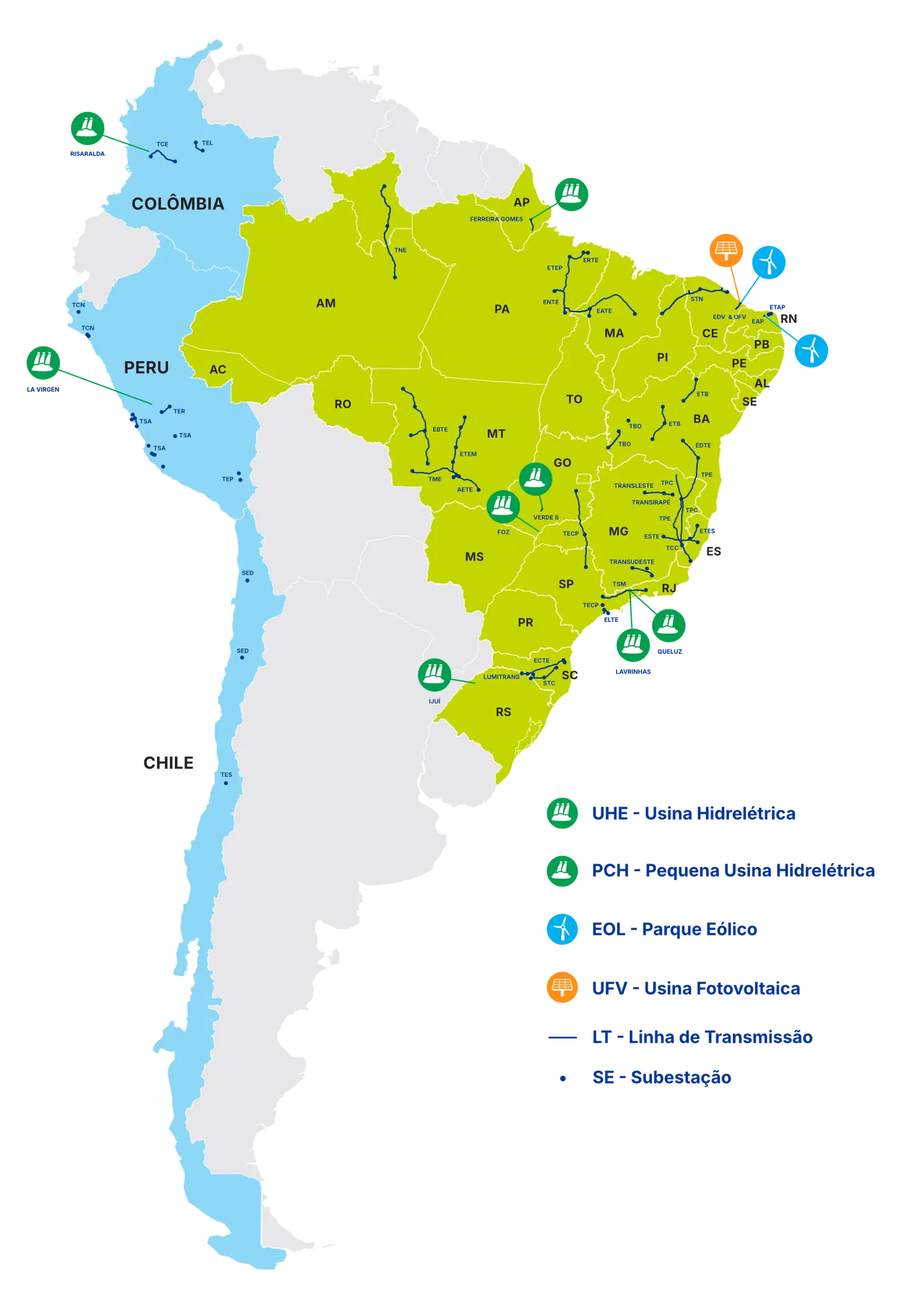
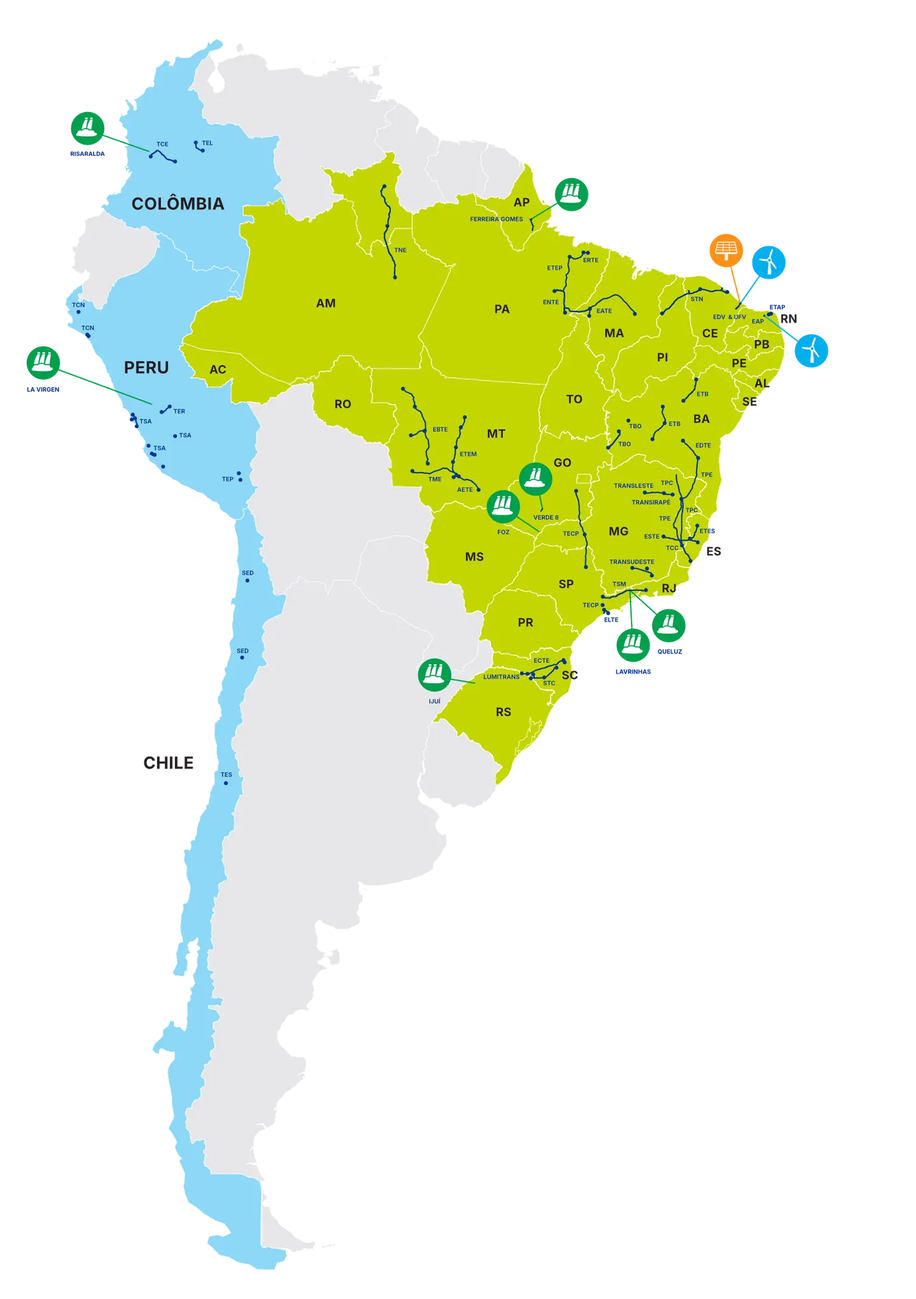
feat: legenda do mapa em HTML, botões de ação e título menor no celular
A legenda estava desenhada na imagem do mapa: no celular o texto caía a
uns 6 px e só existia em português. Sai da imagem e vira lista, nos três
idiomas, no mesmo canto do mapa quando há largura e abaixo dele quando
não há. Os ícones são recortes do próprio mapa.

Na Área de atuação os quatro links de ação viram o botão do tema, com
hierarquia e área de toque de verdade. Abaixo de 992 px o h2 desce a
24 px e o h3 a 22 px, para não passarem do h1 de 26 px.

Changed region(s): [[0.5938, 0.617, 0.875, 0.833], [0.7188, 0.617, 0.9375, 0.6787]]

diff --git a/acervo/revisado/es/area-de-atuacao.html b/acervo/revisado/es/area-de-atuacao.html
@@ -2,7 +2,7 @@
 <h2>Transmisión de energía: la columna vertebral del negocio</h2>
 <p>En el segmento de transmisión, Alupar posee la concesión de 45 sistemas, que suman más de 10 mil km de líneas en diferentes regiones. Son concesiones de 30 años en Brasil y en Perú, y concesiones perpetuas en Colombia y en Chile, lo que refuerza el carácter de largo plazo de las inversiones de la empresa.</p>
 <p>Es esta red la que lleva la energía generada en un punto del continente hasta donde realmente se consume, con seguridad, eficiencia y la calidad técnica reconocida por el sector.</p>
-<p><a href="/es/empresas/#transmisores">Conozca las transmisoras de Alupar</a></p>
+<p><a class="btn btn-azul" href="/es/empresas/#transmisores">Conozca las transmisoras de Alupar</a></p>
 <h2>Generación renovable: invirtiendo en el futuro de la energía renovable</h2>
 <p>En generación, Alupar se enfoca en las fuentes renovables. Son 16 emprendimientos entre concesiones y autorizaciones, que totalizan casi 800 MW de capacidad instalada, distribuidos así:</p>
 <ul>
@@ -12,11 +12,11 @@
 <li>1 planta fotovoltaica</li>
 </ul>
 <p>Esta diversidad de fuentes refleja una estrategia de largo plazo para diversificar la matriz energética y reducir riesgos, siempre con foco en la sostenibilidad.</p>
-<p><a href="/es/empresas/#generadores">Conozca las generadoras de Alupar</a></p>
+<p><a class="btn btn-azul" href="/es/empresas/#generadores">Conozca las generadoras de Alupar</a></p>
 <h2>Más allá de la transmisión y la generación</h2>
 <p>En los últimos años, Alupar amplió su negocio en Brasil. Además de transmitir y generar energía, también actúa en el segmento de comercialización: Alup, nuestra comercializadora, actúa en el mercado libre ofreciendo energía con certificación de origen renovable para clientes de media y alta tensión.</p>
 <p>Es un paso natural para quien ya domina la cadena de energía de punta a punta y ahora conecta ese conocimiento y su experiencia directamente con quien consume.</p>
-<p><a href="https://alup.io/" target="_blank">Conozca más sobre Alup</a></p>
+<p><a class="btn btn-azul" href="https://alup.io/" target="_blank">Conozca más sobre Alup</a></p>
 <h2>De Brasil a la internacionalización</h2>
 <p>Como multinacional, la actuación de Alupar va más allá de las fronteras brasileñas. Estamos presentes en tres países de América Latina:</p>
 <ul>
@@ -25,6 +25,16 @@
 <li>Perú: Central Hidroeléctrica La Virgen y los proyectos de transmisión Transmissora Costa Norte (TCN), Transmissora de Energia de Puno (TEP), Transmissora Sierra Azul (TSA) y Transmissora de Energia de Runatullo (TER).</li>
 </ul>
 <p>Cada uno de estos activos pasó por el mismo proceso aplicado en Brasil: desde la concepción del proyecto hasta la operación efectiva, con el rigor técnico que se ha convertido en marca registrada de la compañía.</p>
-<p><a href="/es/empresas/">Conozca las empresas de Alupar</a></p>
-<p><img class="aligncenter" src="https://www.alupar.com.br/wp-content/uploads/sites/alupar/2026/09/mapa-ativos.png" alt="Mapa de los activos de Alupar en América del Sur: líneas de transmisión, subestaciones y centrales en Brasil, y activos en Chile, Colombia y Perú. Leyenda (en portugués): UHE, central hidroeléctrica; PCH, pequeña central hidroeléctrica; EOL, parque eólico; UFV, planta fotovoltaica; LT, línea de transmisión; SE, subestación." width="600" height="851"></p>
+<p><a class="btn btn-azul" href="/es/empresas/">Conozca las empresas de Alupar</a></p>
+<figure class="mapa">
+<img class="aligncenter" src="https://www.alupar.com.br/wp-content/uploads/sites/alupar/2026/09/mapa-ativos.png" alt="Mapa de los activos de Alupar en América del Sur: líneas de transmisión, subestaciones y centrales en Brasil, y activos en Chile, Colombia y Perú." width="600" height="851">
+<ul class="legenda" aria-label="Leyenda del mapa">
+<li><img src="/img/mapa/hidro.webp" alt="" width="28" height="28"><span>UHE – Central Hidroeléctrica</span></li>
+<li><img src="/img/mapa/hidro.webp" alt="" width="28" height="28"><span>PCH – Pequeña Central Hidroeléctrica</span></li>
+<li><img src="/img/mapa/eolica.webp" alt="" width="28" height="28"><span>EOL – Parque Eólico</span></li>
+<li><img src="/img/mapa/solar.webp" alt="" width="28" height="28"><span>UFV – Planta Fotovoltaica</span></li>
+<li><i class="ic lt" aria-hidden="true"></i><span>LT – Línea de Transmisión</span></li>
+<li><i class="ic se" aria-hidden="true"></i><span>SE – Subestación</span></li>
+</ul>
+</figure>
 </div> </div>

diff --git a/acervo/revisado/pt/area-de-atuacao.html b/acervo/revisado/pt/area-de-atuacao.html
@@ -2,7 +2,7 @@
 <h2>Transmissão de energia: a espinha dorsal do negócio</h2>
 <p>No segmento de transmissão, a Alupar detém a concessão de 45 sistemas, somando mais de 10 mil km de linhas em diferentes regiões. São concessões de 30 anos no Brasil e no Peru, e concessões vitalícias na Colômbia e no Chile, o que reforça o caráter de longo prazo dos investimentos da empresa.</p>
 <p>É essa rede que leva a energia gerada em um ponto do continente até onde ela realmente é consumida, com segurança, eficiência e a qualidade técnica reconhecida pelo setor.</p>
-<p><a href="/empresas/#transmissoras">Conheça as Transmissoras da Alupar</a></p>
+<p><a class="btn btn-azul" href="/empresas/#transmissoras">Conheça as Transmissoras da Alupar</a></p>
 <h2>Geração renovável: investindo no futuro da energia renovável</h2>
 <p>Na geração, a Alupar foca nas fontes renováveis. São 16 empreendimentos entre concessões e autorizações, totalizando quase 800 MW de capacidade instalada, distribuídos assim:</p>
 <ul>
@@ -12,11 +12,11 @@
 <li>1 usina fotovoltaica</li>
 </ul>
 <p>Essa diversidade de fontes reflete uma estratégia de longo prazo para diversificar a matriz energética e reduzir riscos, sempre com foco em sustentabilidade.</p>
-<p><a href="/empresas/#geradoras">Conheça as Geradoras da Alupar</a></p>
+<p><a class="btn btn-azul" href="/empresas/#geradoras">Conheça as Geradoras da Alupar</a></p>
 <h2>Indo além da transmissão e da geração</h2>
 <p>Nos últimos anos, a Alupar ampliou o próprio negócio no Brasil. Além de transmitir e gerar energia, também atua no segmento de comercialização: a Alup, nossa comercializadora, atua no mercado livre oferecendo energia com certificação de origem renovável para clientes de média e alta tensão.</p>
 <p>É um passo natural para quem já domina a cadeia de energia de ponta a ponta e agora conecta esse conhecimento e sua experiência diretamente a quem consome.</p>
-<p><a href="https://alup.io/" target="_blank">Saiba mais sobre a Alup</a></p>
+<p><a class="btn btn-azul" href="https://alup.io/" target="_blank">Saiba mais sobre a Alup</a></p>
 <h2>Do Brasil para a Internacionalização</h2>
 <p>Como multinacional, a atuação da Alupar vai além das fronteiras brasileiras. Estamos presentes em três países da América Latina:</p>
 <ul>
@@ -25,6 +25,16 @@
 <li>Peru: Usina Hidrelétrica La Virgen e os projetos de transmissão Transmissora Costa Norte (TCN), Transmissora de Energia de Puno (TEP), Transmissora Sierra Azul (TSA) e Transmissora de Energia de Runatullo (TER).</li>
 </ul>
 <p>Cada um desses ativos passou pelo mesmo processo aplicado no Brasil: da concepção do projeto até a operação efetiva, com o rigor técnico que se tornou marca registrada da companhia.</p>
-<p><a href="/empresas/">Conheça as empresas da Alupar</a></p>
-<p><img class="aligncenter" src="https://www.alupar.com.br/wp-content/uploads/sites/alupar/2026/09/mapa-ativos.png" alt="Mapa dos ativos da Alupar na América do Sul: linhas de transmissão, subestações e usinas no Brasil, e ativos no Chile, na Colômbia e no Peru. Legenda: UHE, usina hidrelétrica; PCH, pequena central hidrelétrica; EOL, parque eólico; UFV, usina fotovoltaica; LT, linha de transmissão; SE, subestação." width="600" height="851"></p>
+<p><a class="btn btn-azul" href="/empresas/">Conheça as empresas da Alupar</a></p>
+<figure class="mapa">
+<img class="aligncenter" src="https://www.alupar.com.br/wp-content/uploads/sites/alupar/2026/09/mapa-ativos.png" alt="Mapa dos ativos da Alupar na América do Sul: linhas de transmissão, subestações e usinas no Brasil, e ativos no Chile, na Colômbia e no Peru." width="600" height="851">
+<ul class="legenda" aria-label="Legenda do mapa">
+<li><img src="/img/mapa/hidro.webp" alt="" width="28" height="28"><span>UHE – Usina Hidrelétrica</span></li>
+<li><img src="/img/mapa/hidro.webp" alt="" width="28" height="28"><span>PCH – Pequena Usina Hidrelétrica</span></li>
+<li><img src="/img/mapa/eolica.webp" alt="" width="28" height="28"><span>EOL – Parque Eólico</span></li>
+<li><img src="/img/mapa/solar.webp" alt="" width="28" height="28"><span>UFV – Usina Fotovoltaica</span></li>
+<li><i class="ic lt" aria-hidden="true"></i><span>LT – Linha de Transmissão</span></li>
+<li><i class="ic se" aria-hidden="true"></i><span>SE – Subestação</span></li>
+</ul>
+</figure>
 </div> </div>

diff --git a/acervo/revisado/en/area-de-atuacao.html b/acervo/revisado/en/area-de-atuacao.html
@@ -2,7 +2,7 @@
 <h2>Power transmission: the backbone of the business</h2>
 <p>In the transmission segment, Alupar holds the concession for 45 systems, totaling more than 10,000 km of lines across different regions. These are 30-year concessions in Brazil and Peru, and lifetime concessions in Colombia and Chile, which underscores the long-term nature of the company’s investments.</p>
 <p>This network carries the energy generated at one point of the continent to where it is actually consumed, with safety, efficiency and the technical quality recognized by the industry.</p>
-<p><a href="/en/empresas/">Meet Alupar’s transmission companies</a></p>
+<p><a class="btn btn-azul" href="/en/empresas/">Meet Alupar’s transmission companies</a></p>
 <h2>Renewable generation: investing in the future of renewable energy</h2>
 <p>In generation, Alupar focuses on renewable sources. There are 16 projects, between concessions and authorizations, totaling nearly 800 MW of installed capacity, distributed as follows:</p>
 <ul>
@@ -12,11 +12,11 @@
 <li>1 photovoltaic plant</li>
 </ul>
 <p>This diversity of sources reflects a long-term strategy to diversify the energy mix and reduce risks, always with a focus on sustainability.</p>
-<p><a href="/en/empresas/#generators">Meet Alupar’s generation companies</a></p>
+<p><a class="btn btn-azul" href="/en/empresas/#generators">Meet Alupar’s generation companies</a></p>
 <h2>Going beyond transmission and generation</h2>
 <p>In recent years, Alupar has expanded its business in Brazil. In addition to transmitting and generating energy, it also operates in energy trading: Alup, our trading company, operates in the free market offering energy with renewable origin certification to medium- and high-voltage customers.</p>
 <p>It is a natural step for a company that already masters the energy chain end to end and now connects this knowledge and experience directly to those who consume it.</p>
-<p><a href="https://alup.io/" target="_blank">Learn more about Alup</a></p>
+<p><a class="btn btn-azul" href="https://alup.io/" target="_blank">Learn more about Alup</a></p>
 <h2>From Brazil to internationalization</h2>
 <p>As a multinational, Alupar’s activities go beyond Brazil’s borders. We are present in three Latin American countries:</p>
 <ul>
@@ -25,6 +25,16 @@
 <li>Peru: La Virgen Hydroelectric Plant and the transmission projects Transmissora Costa Norte (TCN), Transmissora de Energia de Puno (TEP), Transmissora Sierra Azul (TSA) and Transmissora de Energia de Runatullo (TER).</li>
 </ul>
 <p>Each of these assets went through the same process applied in Brazil: from project conception to effective operation, with the technical rigor that has become the company’s trademark.</p>
-<p><a href="/en/empresas/">Meet Alupar’s companies</a></p>
-<p><img class="aligncenter" src="https://www.alupar.com.br/wp-content/uploads/sites/alupar/2026/09/mapa-ativos.png" alt="Map of Alupar’s assets in South America: transmission lines, substations and power plants in Brazil, and assets in Chile, Colombia and Peru. Legend (in Portuguese): UHE, hydroelectric plant; PCH, small hydroelectric plant; EOL, wind farm; UFV, photovoltaic plant; LT, transmission line; SE, substation." width="600" height="851"></p>
+<p><a class="btn btn-azul" href="/en/empresas/">Meet Alupar’s companies</a></p>
+<figure class="mapa">
+<img class="aligncenter" src="https://www.alupar.com.br/wp-content/uploads/sites/alupar/2026/09/mapa-ativos.png" alt="Map of Alupar’s assets in South America: transmission lines, substations and power plants in Brazil, and assets in Chile, Colombia and Peru." width="600" height="851">
+<ul class="legenda" aria-label="Map legend">
+<li><img src="/img/mapa/hidro.webp" alt="" width="28" height="28"><span>UHE – Hydroelectric Power Plant</span></li>
+<li><img src="/img/mapa/hidro.webp" alt="" width="28" height="28"><span>PCH – Small Hydroelectric Plant</span></li>
+<li><img src="/img/mapa/eolica.webp" alt="" width="28" height="28"><span>EOL – Wind Farm</span></li>
+<li><img src="/img/mapa/solar.webp" alt="" width="28" height="28"><span>UFV – Photovoltaic Plant</span></li>
+<li><i class="ic lt" aria-hidden="true"></i><span>LT – Transmission Line</span></li>
+<li><i class="ic se" aria-hidden="true"></i><span>SE – Substation</span></li>
+</ul>
+</figure>
 </div> </div>

diff --git a/acervo/revisado/pt/a-companhia.html b/acervo/revisado/pt/a-companhia.html
@@ -4,7 +4,17 @@
 <p>A vasta experiência e os resultados demonstram a competência técnica da Alupar possibilitando o desenvolvimento de projetos, seja na Transmissão de Energia, seja na Geração, com a eficiência e qualidade necessárias, desde a sua concepção até a sua efetiva operação, agregando valor à sociedade e ao país, comprovados pelos altos índices de qualidade dos seus empreendimentos em operação.</p>
 <p>Além dos ativos no Brasil, estamos presentes no Chile, através da Transmissora de Energia de Santiago (TES) e da SED; na Colômbia, através da PCH Risaralda (Morro Azul), da Transmissora Colombiana de Energia (TCE) e da Transmissora de Energia de Los Llanos (TEL); e no Peru, através da Usina Hidrelétrica La Virgen, da Transmissora Costa Norte (TCN), da Transmissora de Energia de Puno (TEP), da Transmissora Sierra Azul (TSA) e da Transmissora de Energia de Runatullo (TER).</p>
 <p>Com o compromisso de gerar valor à sociedade e aos seus acionistas, a Alupar investe em competência técnica, forte disciplina financeira e responsabilidade social para continuar com o seu crescimento sustentável através do desenvolvimento de projetos de geração e sistemas de transmissão.</p>
-<p><img class="aligncenter" src="https://www.alupar.com.br/wp-content/uploads/sites/alupar/2026/09/mapa-ativos.png" alt="Mapa dos ativos da Alupar na América do Sul: linhas de transmissão, subestações e usinas no Brasil, e ativos no Chile, na Colômbia e no Peru." width="600" height="851"></p>
+<figure class="mapa">
+<img class="aligncenter" src="https://www.alupar.com.br/wp-content/uploads/sites/alupar/2026/09/mapa-ativos.png" alt="Mapa dos ativos da Alupar na América do Sul: linhas de transmissão, subestações e usinas no Brasil, e ativos no Chile, na Colômbia e no Peru." width="600" height="851">
+<ul class="legenda" aria-label="Legenda do mapa">
+<li><img src="/img/mapa/hidro.webp" alt="" width="28" height="28"><span>UHE – Usina Hidrelétrica</span></li>
+<li><img src="/img/mapa/hidro.webp" alt="" width="28" height="28"><span>PCH – Pequena Usina Hidrelétrica</span></li>
+<li><img src="/img/mapa/eolica.webp" alt="" width="28" height="28"><span>EOL – Parque Eólico</span></li>
+<li><img src="/img/mapa/solar.webp" alt="" width="28" height="28"><span>UFV – Usina Fotovoltaica</span></li>
+<li><i class="ic lt" aria-hidden="true"></i><span>LT – Linha de Transmissão</span></li>
+<li><i class="ic se" aria-hidden="true"></i><span>SE – Subestação</span></li>
+</ul>
+</figure>
 <h2><span>Missão, Visão e Valores</span></h2>
 <p><img decoding="async" class="wp-image-3329 aligncenter" src="https://www.alupar.com.br/wp-content/uploads/sites/7/2024/03/MISSAO-VALORES_SITE_PT-300x243.jpg" alt="Missão, Visão e Valores da Alupar" width="674" height="546"></p>
 <div class="sr-only">

diff --git a/acervo/revisado/es/a-companhia.html b/acervo/revisado/es/a-companhia.html
@@ -4,7 +4,17 @@
 <p>La vasta experiencia y los resultados demuestran la competencia técnica de Alupar, lo que posibilita el desarrollo de proyectos, ya sea en Transmisión de Energía o en Generación, con la eficiencia y la calidad necesarias, desde su concepción hasta su operación efectiva, agregando valor a la sociedad y al país, comprobados por los altos índices de calidad de sus emprendimientos en operación.</p>
 <p>Además de los activos en Brasil, estamos presentes en Chile a través de Transmissora de Energia de Santiago (TES) y SED; en Colombia a través de PCH Risaralda (Morro Azul), Transmissora Colombiana de Energia (TCE) y Transmissora de Energia de Los Llanos (TEL); y en Perú a través de la Central Hidroeléctrica La Virgen, Transmissora Costa Norte (TCN), Transmissora de Energia de Puno (TEP), Transmissora Sierra Azul (TSA) y Transmissora de Energia de Runatullo (TER).</p>
 <p>Con el compromiso de generar valor para la sociedad y sus accionistas, Alupar invierte en competencia técnica, fuerte disciplina financiera y responsabilidad social para continuar su crecimiento sostenible a través del desarrollo de proyectos de generación y sistemas de transmisión.</p>
-<p><img class="aligncenter" src="https://www.alupar.com.br/wp-content/uploads/sites/alupar/2026/09/mapa-ativos.png" alt="Mapa de los activos de Alupar en América del Sur: líneas de transmisión, subestaciones y centrales en Brasil, y activos en Chile, Colombia y Perú." width="600" height="851"></p>
+<figure class="mapa">
+<img class="aligncenter" src="https://www.alupar.com.br/wp-content/uploads/sites/alupar/2026/09/mapa-ativos.png" alt="Mapa de los activos de Alupar en América del Sur: líneas de transmisión, subestaciones y centrales en Brasil, y activos en Chile, Colombia y Perú." width="600" height="851">
+<ul class="legenda" aria-label="Leyenda del mapa">
+<li><img src="/img/mapa/hidro.webp" alt="" width="28" height="28"><span>UHE – Central Hidroeléctrica</span></li>
+<li><img src="/img/mapa/hidro.webp" alt="" width="28" height="28"><span>PCH – Pequeña Central Hidroeléctrica</span></li>
+<li><img src="/img/mapa/eolica.webp" alt="" width="28" height="28"><span>EOL – Parque Eólico</span></li>
+<li><img src="/img/mapa/solar.webp" alt="" width="28" height="28"><span>UFV – Planta Fotovoltaica</span></li>
+<li><i class="ic lt" aria-hidden="true"></i><span>LT – Línea de Transmisión</span></li>
+<li><i class="ic se" aria-hidden="true"></i><span>SE – Subestación</span></li>
+</ul>
+</figure>
 <h2>Misión, Visión y Valores</h2>
 <h3>Misión</h3>
 <p>Transmitir y generar energía con responsabilidad empresarial, social y ambiental, generando valor para los accionistas, desarrollo económico y bienestar de las personas.</p>

diff --git a/acervo/revisado/en/a-companhia.html b/acervo/revisado/en/a-companhia.html
@@ -4,7 +4,17 @@
 <p>The vast experience and results demonstrate Alupar’s technical competence, enabling the development of projects, whether in Energy Transmission or Generation, with the necessary efficiency and quality, from their conception to their effective operation, adding value to society and to the country, proven by the high quality levels of its operating projects.</p>
 <p>In addition to the assets in Brazil, we are present in Chile through Transmissora de Energia de Santiago (TES) and SED; in Colombia through PCH Risaralda (Morro Azul), Transmissora Colombiana de Energia (TCE) and Transmissora de Energia de Los Llanos (TEL); and in Peru through the La Virgen Hydroelectric Plant, Transmissora Costa Norte (TCN), Transmissora de Energia de Puno (TEP), Transmissora Sierra Azul (TSA) and Transmissora de Energia de Runatullo (TER).</p>
 <p>With a commitment to generating value for society and its shareholders, Alupar invests in technical competence, strong financial discipline and social responsibility to continue its sustainable growth through the development of generation projects and transmission systems.</p>
-<p><img class="aligncenter" src="https://www.alupar.com.br/wp-content/uploads/sites/alupar/2026/09/mapa-ativos.png" alt="Map of Alupar’s assets in South America: transmission lines, substations and power plants in Brazil, and assets in Chile, Colombia and Peru." width="600" height="851"></p>
+<figure class="mapa">
+<img class="aligncenter" src="https://www.alupar.com.br/wp-content/uploads/sites/alupar/2026/09/mapa-ativos.png" alt="Map of Alupar’s assets in South America: transmission lines, substations and power plants in Brazil, and assets in Chile, Colombia and Peru." width="600" height="851">
+<ul class="legenda" aria-label="Map legend">
+<li><img src="/img/mapa/hidro.webp" alt="" width="28" height="28"><span>UHE – Hydroelectric Power Plant</span></li>
+<li><img src="/img/mapa/hidro.webp" alt="" width="28" height="28"><span>PCH – Small Hydroelectric Plant</span></li>
+<li><img src="/img/mapa/eolica.webp" alt="" width="28" height="28"><span>EOL – Wind Farm</span></li>
+<li><img src="/img/mapa/solar.webp" alt="" width="28" height="28"><span>UFV – Photovoltaic Plant</span></li>
+<li><i class="ic lt" aria-hidden="true"></i><span>LT – Transmission Line</span></li>
+<li><i class="ic se" aria-hidden="true"></i><span>SE – Substation</span></li>
+</ul>
+</figure>
 <h2>Mission, Vision and Values</h2>
 <p><img decoding="async" class="wp-image-3334 aligncenter" src="https://www.alupar.com.br/wp-content/uploads/sites/7/2024/03/MISSAO-VALORES_SITE_US-300x244.jpg" alt="Alupar’s Mission, Vision and Values" width="823" height="669"></p>
 <div class="sr-only">

diff --git a/src/lib/acervo.test.ts b/src/lib/acervo.test.ts
@@ -147,3 +147,25 @@ test('a imagem de Missão, Visão e Valores do português e do inglês traz o te
     assert.ok(c.slice(c.indexOf('class="sr-only"')).includes(palavra), `${pre}/a-companhia/`);
   }
 });
+
+test('o mapa de ativos traz a legenda em HTML, traduzida, na Área de atuação e em A Companhia', () => {
+  const subestacao = { '': 'Subestação', '/en': 'Substation', '/es': 'Subestación' } as const;
+  for (const pre of ['', '/en', '/es'] as const) {
+    for (const rota of ['area-de-atuacao', 'a-companhia']) {
+      const c = itens().find((i) => i.rota === `${pre}/${rota}/`)?.corpo ?? '';
+      const onde = `${pre}/${rota}/`;
+      assert.match(c, /<figure class="mapa">/, onde);
+      assert.match(c, /<ul class="legenda"/, onde);
+      assert.ok(c.includes(subestacao[pre]), `${onde}: legenda sem "${subestacao[pre]}"`);
+      /* A legenda deixou de estar desenhada na imagem: o texto alternativo descreve o mapa, não a legenda. */
+      assert.doesNotMatch(c, /Legenda:|Legend \(|Leyenda \(/, onde);
+    }
+  }
+});
+
+test('os quatro links de ação da Área de atuação são o botão do tema', () => {
+  for (const pre of ['', '/en', '/es']) {
+    const c = itens().find((i) => i.rota === `${pre}/area-de-atuacao/`)?.corpo ?? '';
+    assert.equal((c.match(/<a class="btn btn-azul"/g) ?? []).length, 4, `${pre}/area-de-atuacao/`);
+  }
+});

diff --git a/docs/decisoes.md b/docs/decisoes.md
@@ -25,7 +25,7 @@ Visual de 2018.
 | D16 | Área de notícias | **Desativada; 301 para o portal de RI** | A Alupar decidiu em 16/09/2026: "as notícias estão antigas… desativar mesmo". Fecha a D5 pelo caminho mais simples — em vez de importar um feed, o site deixa de ter a área e manda os 186 endereços vivos para quem já os mantém. Nenhum 404 (regra 3) |
 | D17 | Dono do conteúdo, com nome | **Fabiana Carneiro Pinho** | A D6 nomeou a área; faltava a pessoa. Foi a ausência de dono que deixou o site parar em 2023, e área não assina nada — pessoa assina |
 | D18 | Orçamento de peso da home | **600 KB → 3 MB**, para o vídeo do topo tocar sozinho | A Alupar pediu o institucional no lugar do rotativo, tocando ao abrir. Medido: com o player carregado o peso vai a 2,39 MB — 1,19 MB de vídeo e ~850 KB do JS do YouTube. O limite antigo reprovava por quatro vezes. **Não é afrouxar um portão para fazer passar** (regra 5): é o preço declarado de um pedido da cliente, decidido por ela em 16/09/2026 depois de ver o número. A alternativa aberta continua sendo hospedar um laço curto em MP4, que dispensa o JS do YouTube e devolveria a maior parte do orçamento — falta o arquivo de vídeo |
-| D19 | Área de atuação e números institucionais | **Texto revisado pela Alupar substitui o migrado**, em `acervo/revisado/`; mapa novo de ativos | A Alupar enviou em 21/09/2026 o texto novo da Área de atuação (`02_Conteudo_Pag_AreasDeAtuacao.docx`) e o `Mapa_Ativos.png`: 45 sistemas, mais de 10 mil km, 16 empreendimentos, quase 800 MW, Chile/Colômbia/Peru. Os mesmos números passam a valer em A Companhia e na faixa da home, que estavam em 35 sistemas / 8.805 km / 798,5 MW (o espanhol ainda em 30 sistemas / 7.964 km). As tabelas de sistemas e geradoras da página antiga saem com o texto. EN e ES traduzidos pela ness., a validar pela Comunicação no preview (resposta 3 de 16/09). Empresas não tem aba LATAM: o link do documento aponta para a página Empresas |
+| D19 | Área de atuação e números institucionais | **Texto revisado pela Alupar substitui o migrado**, em `acervo/revisado/`; mapa novo de ativos | A Alupar enviou em 21/09/2026 o texto novo da Área de atuação (`02_Conteudo_Pag_AreasDeAtuacao.docx`) e o `Mapa_Ativos.png`: 45 sistemas, mais de 10 mil km, 16 empreendimentos, quase 800 MW, Chile/Colômbia/Peru. Os mesmos números passam a valer em A Companhia e na faixa da home, que estavam em 35 sistemas / 8.805 km / 798,5 MW (o espanhol ainda em 30 sistemas / 7.964 km). As tabelas de sistemas e geradoras da página antiga saem com o texto. EN e ES traduzidos pela ness., a validar pela Comunicação no preview (resposta 3 de 16/09). Empresas não tem aba LATAM: o link do documento aponta para a página Empresas. A legenda do mapa (UHE, PCH, EOL, UFV, LT, SE) saiu da imagem e virou lista em HTML nos três idiomas: desenhada, caía a ~6 px no celular e só existia em português. Os nomes de país dentro do mapa (COLÔMBIA, PERU, CHILE) continuam em português até a Alupar mandar as versões em EN e ES |
 
 ## Por que a plataforma deixou de ser pergunta (D13)
 
